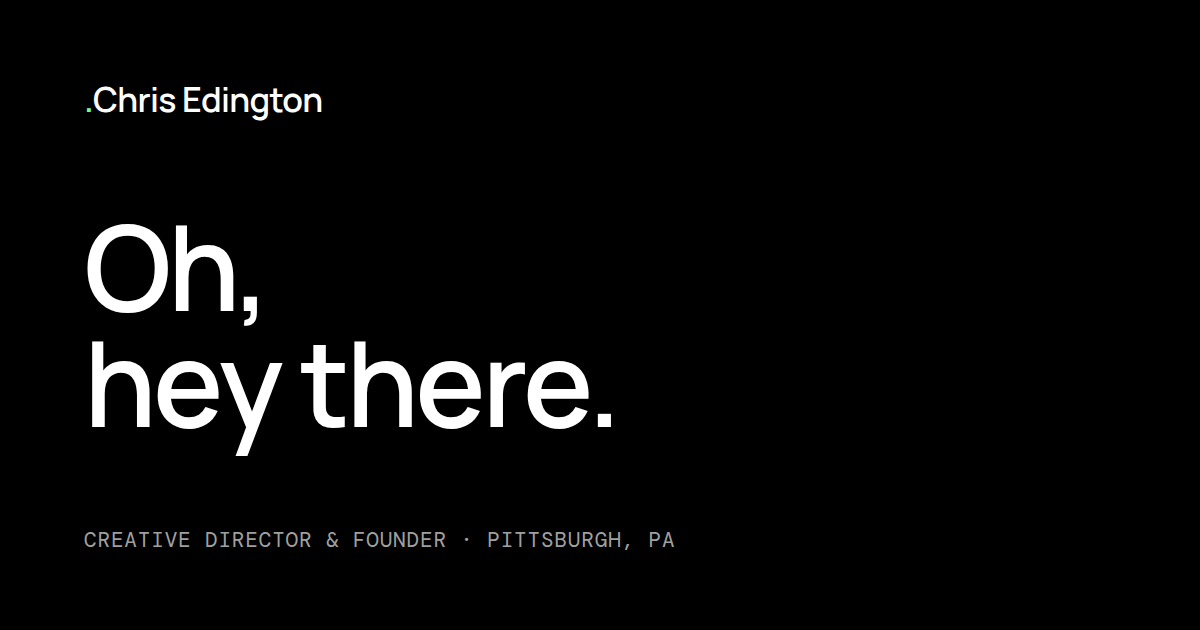
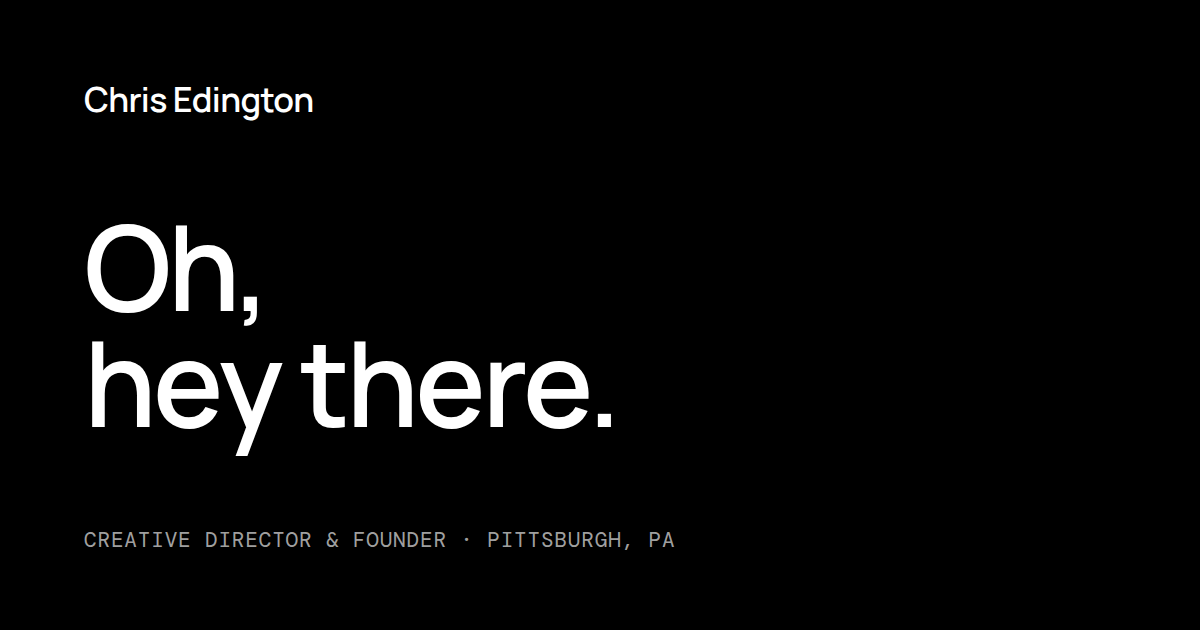
Accent goes magenta, brand dot removed
The single accent token swaps from green #6CFF8F to magenta
#FF3DBE, carrying the status dot, veteran mark, and every other
accent with it. The period before the name in the nav and footer
brand marks is gone, and the Open Graph image regenerates to match.

Claude-Session: https://claude.ai/code/session_01R11JtoLtyzyervy2NW4yHL

Changed region(s): [[0.0617, 0.1206, 0.2775, 0.2111]]

diff --git a/about.html b/about.html
@@ -25,7 +25,7 @@
   <header class="site-header">
     <div class="wrap header-inner">
       <a class="brand-mark" href="index.html" aria-label="Chris Edington, home">
-        <span class="brand-dot">.</span>Chris Edington
+        Chris Edington
       </a>
       <nav class="main-nav" data-main-nav aria-label="Primary">
         <a href="about.html" aria-current="page">About</a>
@@ -148,7 +148,7 @@
       <div class="footer-top">
         <div class="footer-brand">
           <a class="brand-mark" href="index.html" aria-label="Chris Edington, home">
-            <span class="brand-dot">.</span>Chris Edington
+            Chris Edington
           </a>
           <p class="text-muted" style="margin-top: var(--space-4);">Creative director and founder. Building Edington Studio, Quell, and Mr. Sniff&rsquo;s from Pittsburgh, PA.</p>
           <p class="footer-veteran">A certified veteran-owned small business<span>VOSB &middot; SBA VetCert &middot; SAM.gov registered</span></p>

diff --git a/government.html b/government.html
@@ -25,7 +25,7 @@
   <header class="site-header">
     <div class="wrap header-inner">
       <a class="brand-mark" href="index.html" aria-label="Chris Edington, home">
-        <span class="brand-dot">.</span>Chris Edington
+        Chris Edington
       </a>
       <nav class="main-nav" data-main-nav aria-label="Primary">
         <a href="about.html">About</a>
@@ -116,7 +116,7 @@
       <div class="footer-top">
         <div class="footer-brand">
           <a class="brand-mark" href="index.html" aria-label="Chris Edington, home">
-            <span class="brand-dot">.</span>Chris Edington
+            Chris Edington
           </a>
           <p class="text-muted" style="margin-top: var(--space-4);">Creative director and founder. Building Edington Studio, Quell, and Mr. Sniff&rsquo;s from Pittsburgh, PA.</p>
           <p class="footer-veteran">A certified veteran-owned small business<span>VOSB &middot; SBA VetCert &middot; SAM.gov registered</span></p>

diff --git a/index.html b/index.html
@@ -28,7 +28,7 @@
   <header class="site-header">
     <div class="wrap header-inner">
       <a class="brand-mark" href="index.html" aria-label="Chris Edington, home">
-        <span class="brand-dot">.</span>Chris Edington
+        Chris Edington
       </a>
       <nav class="main-nav" data-main-nav aria-label="Primary">
         <a href="about.html">About</a>
@@ -161,7 +161,7 @@
       <div class="footer-top">
         <div class="footer-brand">
           <a class="brand-mark" href="index.html" aria-label="Chris Edington, home">
-            <span class="brand-dot">.</span>Chris Edington
+            Chris Edington
           </a>
           <p class="text-muted" style="margin-top: var(--space-4);">Creative director and founder. Building Edington Studio, Quell, and Mr. Sniff&rsquo;s from Pittsburgh, PA.</p>
           <p class="footer-veteran">A certified veteran-owned small business<span>VOSB &middot; SBA VetCert &middot; SAM.gov registered</span></p>

diff --git a/404.html b/404.html
@@ -25,7 +25,7 @@
   <header class="site-header">
     <div class="wrap header-inner">
       <a class="brand-mark" href="index.html" aria-label="Chris Edington, home">
-        <span class="brand-dot">.</span>Chris Edington
+        Chris Edington
       </a>
       <nav class="main-nav" data-main-nav aria-label="Primary">
         <a href="about.html">About</a>
@@ -54,7 +54,7 @@
       <div class="footer-top">
         <div class="footer-brand">
           <a class="brand-mark" href="index.html" aria-label="Chris Edington, home">
-            <span class="brand-dot">.</span>Chris Edington
+            Chris Edington
           </a>
           <p class="text-muted" style="margin-top: var(--space-4);">Creative director and founder. Building Edington Studio, Quell, and Mr. Sniff&rsquo;s from Pittsburgh, PA.</p>
           <p class="footer-veteran">A certified veteran-owned small business<span>VOSB &middot; SBA VetCert &middot; SAM.gov registered</span></p>

diff --git a/contact.html b/contact.html
@@ -25,7 +25,7 @@
   <header class="site-header">
     <div class="wrap header-inner">
       <a class="brand-mark" href="index.html" aria-label="Chris Edington, home">
-        <span class="brand-dot">.</span>Chris Edington
+        Chris Edington
       </a>
       <nav class="main-nav" data-main-nav aria-label="Primary">
         <a href="about.html">About</a>
@@ -93,7 +93,7 @@
       <div class="footer-top">
         <div class="footer-brand">
           <a class="brand-mark" href="index.html" aria-label="Chris Edington, home">
-            <span class="brand-dot">.</span>Chris Edington
+            Chris Edington
           </a>
           <p class="text-muted" style="margin-top: var(--space-4);">Creative director and founder. Building Edington Studio, Quell, and Mr. Sniff&rsquo;s from Pittsburgh, PA.</p>
           <p class="footer-veteran">A certified veteran-owned small business<span>VOSB &middot; SBA VetCert &middot; SAM.gov registered</span></p>

diff --git a/notes.html b/notes.html
@@ -25,7 +25,7 @@
   <header class="site-header">
     <div class="wrap header-inner">
       <a class="brand-mark" href="index.html" aria-label="Chris Edington, home">
-        <span class="brand-dot">.</span>Chris Edington
+        Chris Edington
       </a>
       <nav class="main-nav" data-main-nav aria-label="Primary">
         <a href="about.html">About</a>
@@ -76,7 +76,7 @@
       <div class="footer-top">
         <div class="footer-brand">
           <a class="brand-mark" href="index.html" aria-label="Chris Edington, home">
-            <span class="brand-dot">.</span>Chris Edington
+            Chris Edington
           </a>
           <p class="text-muted" style="margin-top: var(--space-4);">Creative director and founder. Building Edington Studio, Quell, and Mr. Sniff&rsquo;s from Pittsburgh, PA.</p>
           <p class="footer-veteran">A certified veteran-owned small business<span>VOSB &middot; SBA VetCert &middot; SAM.gov registered</span></p>

diff --git a/style.css b/style.css
@@ -44,7 +44,7 @@
   --color-fg-dim: rgba(255, 255, 255, 0.34);
   --color-border: rgba(255, 255, 255, 0.1);
   --color-border-strong: rgba(255, 255, 255, 0.2);
-  --color-accent: #6cff8f;
+  --color-accent: #ff3dbe;
   --color-primary: #ffffff;
 
   /* ---------- fonts ---------- */

diff --git a/build.py b/build.py
@@ -59,7 +59,7 @@ def header(active):
     return f'''  <header class="site-header">
     <div class="wrap header-inner">
       <a class="brand-mark" href="index.html" aria-label="Chris Edington, home">
-        <span class="brand-dot">.</span>Chris Edington
+        Chris Edington
       </a>
       <nav class="main-nav" data-main-nav aria-label="Primary">
         {render_nav(active)}
@@ -77,7 +77,7 @@ FOOTER = '''  <footer class="site-footer">
       <div class="footer-top">
         <div class="footer-brand">
           <a class="brand-mark" href="index.html" aria-label="Chris Edington, home">
-            <span class="brand-dot">.</span>Chris Edington
+            Chris Edington
           </a>
           <p class="text-muted" style="margin-top: var(--space-4);">Creative director and founder. Building Edington Studio, Quell, and Mr. Sniff&rsquo;s from Pittsburgh, PA.</p>
           <p class="footer-veteran">A certified veteran-owned small business<span>VOSB &middot; SBA VetCert &middot; SAM.gov registered</span></p>
